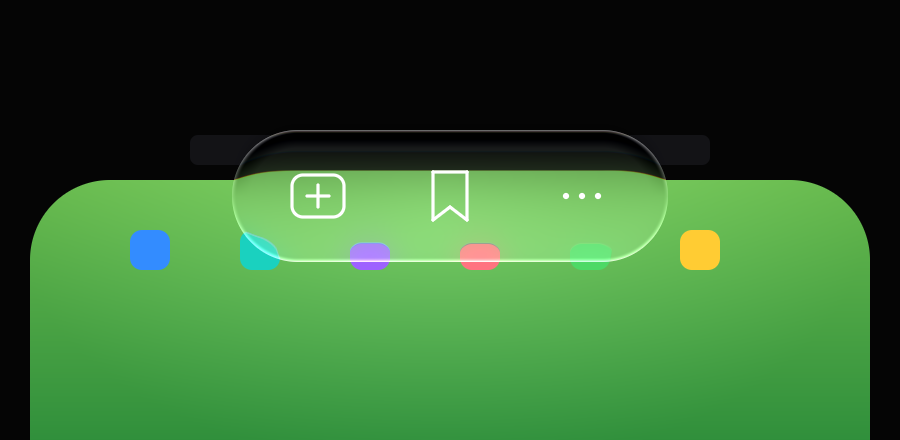
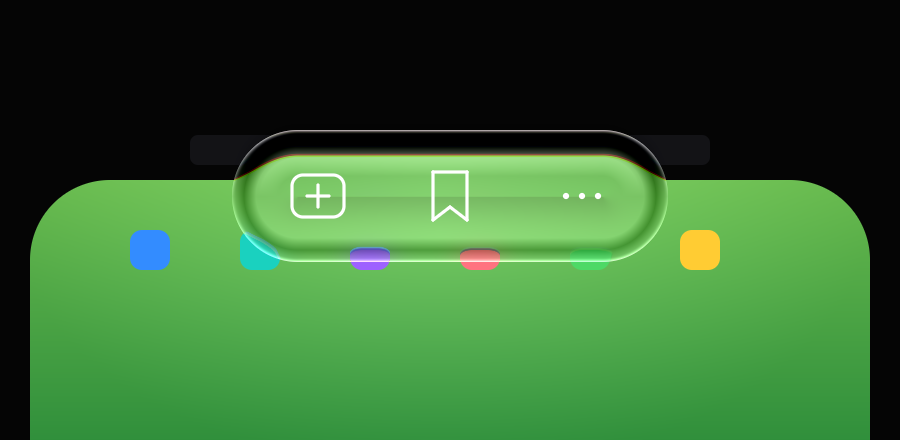
Make the glass feel thicker
Deeper refraction (thickness x1.5 so the whole body stays magnified),
stronger magnification (mag 0.62->0.52) and dispersion (ca 0.035->0.05),
and a real thick-glass edge: bright outer rim -> dark refracting wall band
~12px in -> inner-bevel highlight ~28px in. The banding across depth is
what reads as glass thickness.

Changed region(s): [[0.2489, 0.2955, 0.7467, 0.5909]]

diff --git a/liquid-glass/glass.js b/liquid-glass/glass.js
@@ -32,12 +32,13 @@
   // bg, blurred, out: RGBA buffers (0..255). cap = {cx,cy,w,h,r}.
   function render(bg, blurred, out, W, H, cap, opts) {
     opts = opts || {};
-    var mag   = opts.mag   != null ? opts.mag   : 0.62;  // <1 => stronger magnification
-    var ca    = opts.ca    != null ? opts.ca    : 0.035; // chromatic aberration
-    var frost = opts.frost != null ? opts.frost : 0.28;  // milky frost (lens is clearer)
+    var mag   = opts.mag   != null ? opts.mag   : 0.52;  // <1 => stronger magnification
+    var ca    = opts.ca    != null ? opts.ca    : 0.05;  // chromatic aberration (dispersion)
+    var frost = opts.frost != null ? opts.frost : 0.32;  // milky frost
     var tintT = opts.tint  != null ? opts.tint  : 0.06;
     var cx = cap.cx, cy = cap.cy, w = cap.w, h = cap.h, r = cap.r;
-    var thick = opts.thickness != null ? opts.thickness : Math.min(w, h) / 2; // half-thickness
+    // bigger "thickness" => deeper refraction + the whole body stays magnified
+    var thick = opts.thickness != null ? opts.thickness : Math.min(w, h) / 2 * 1.5;
     var pg = [0,0,0], pr = [0,0,0], pb = [0,0,0], bl = [0,0,0];
 
     var x0 = Math.max(0, Math.floor(cx - w/2 - 2)), x1 = Math.min(W, Math.ceil(cx + w/2 + 2));
@@ -79,15 +80,15 @@
         var body = (v - 0.45) * 34;
         R = clamp(R + body, 0, 255); G = clamp(G + body, 0, 255); B = clamp(B + body, 0, 255);
 
-        // REFLECTIONS on every edge (normal-based): bright top rim, bottom glow,
-        // faint highlight all around.
-        var rm = clamp(1 - e / 5.0, 0, 1); rm *= rm;
-        var refl = rm * (Math.max(0, -ny) * 150 + Math.max(0, ny) * 95 + 26);
-        R = clamp(R + refl, 0, 255); G = clamp(G + refl, 0, 255); B = clamp(B + refl, 0, 255);
-
-        // soft dark "glass thickness" just inside the top edge
-        var topDark = clamp(1 - e / 18, 0, 1) * Math.max(0, -ny) * 44;
-        R = clamp(R - topDark, 0, 255); G = clamp(G - topDark, 0, 255); B = clamp(B - topDark, 0, 255);
+        // THICK-GLASS edge wall: a bright outer rim, a dark refracting wall band
+        // a little inside, then a softer inner-bevel highlight deeper in. The
+        // banding across ~30px of depth is what reads as real glass thickness.
+        var rmO   = clamp(1 - e / 4.5, 0, 1); rmO *= rmO;                       // outer rim
+        var reflO = rmO * (Math.max(0, -ny) * 180 + Math.max(0, ny) * 85 + 24);
+        var wall  = clamp(1 - Math.abs(e - 12) / 12, 0, 1) * 62;                // dark glass wall
+        var bevel = clamp(1 - Math.abs(e - 28) / 18, 0, 1) * Math.max(0, -ny) * 50; // inner highlight
+        var lift  = reflO - wall + bevel;
+        R = clamp(R + lift, 0, 255); G = clamp(G + lift, 0, 255); B = clamp(B + lift, 0, 255);
 
         out[o] = R; out[o+1] = G; out[o+2] = B; out[o+3] = clamp(-d + 0.5, 0, 1) * 255;
       }
